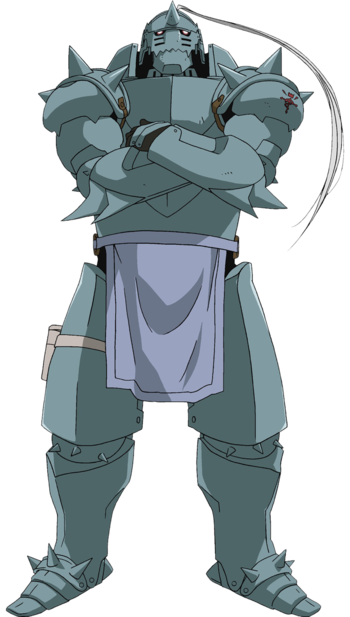
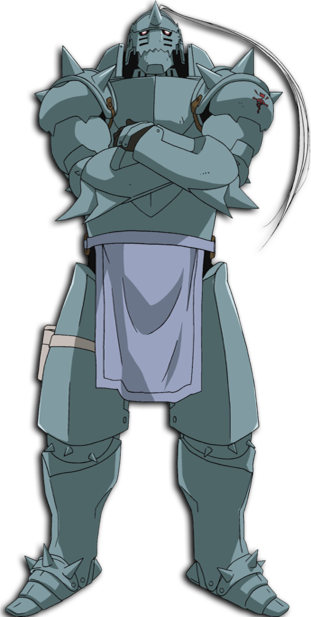
Projeto finalizado, AMV's adicionados, estilizacao de butao adicionado, botao mute e unmute adicionado

diff --git a/pages/winry.html b/pages/winry.html
@@ -13,7 +13,12 @@
 </head>
 
 <body>
-
+    <div class="video-background" id="video">
+        <div class="video-foreground">
+            <iframe src="https://www.youtube.com/embed/5zLWBdOj-ac?controls=0&showinfo=0&rel=0&autoplay=1&loop=1&mute=0"
+                allow="autoplay" frameborder="0" allowfullscreen></iframe>
+        </div>
+    </div>
     <nav class="navbar">
         <div class="logo">
             <a href="../index.html"><img src="../assets/images/logo.png" width="70px" height="50px"></a>
@@ -24,11 +29,13 @@
             <li class="um"><a href="#" onclick="info()">Info</a></li>
             <li class="dois"><a href="#" onclick="papel()">Papel</a></li>
             <li class="tres"><a href="#" onclick="wall()">Wallpapers</a></li>
+            <li><button class="botao-som" onclick="mutar()"><i class="fas fa-volume-mute"></i></button></li>
+            <li><button class="botao-som" onclick="desmutar()"><i class="fas fa-volume-up"></i></button></li>
         </ul>
 
     </nav>
     <div class="conteudo">
-        <div style="width:2%">
+        <div style="width:10%">
 
         </div>
         <!-- imagens -->
@@ -36,7 +43,7 @@
         <div class="container-imagens">
             <div>
                 <a href="../index.html">
-                <img src="../assets/images/ed_art.jpg" alt="arte do Edward" class="imagem">
+                    <img src="../assets/images/ed_art.jpg" alt="arte do Edward" class="imagem">
                 </a>
             </div>
             <div>
@@ -46,9 +53,9 @@
 
             </div>
             <div>
-               
-                    <img src="../assets/images/winry_art.jpg" alt="arte do Winry" class="imagem active">
-                
+
+                <img src="../assets/images/winry_art.jpg" alt="arte do Winry" class="imagem active">
+
             </div>
             <div>
                 <a href="mustang.html">
@@ -68,16 +75,24 @@
             <br />
             <div id="info">
                 <p>
-                    Winry Rockbell (ウィンリィ・ロックベル, Winrī Rokkuberu) is a main supporting character of the Fullmetal Alchemist series. She is a close childhood friend of Edward Elric and Alphonse Elric ever since their young life in Resembool who is almost like a sister to the two and essentially their only family. An amateur surgeon and mechanical repair specialist/enthusiast, Winry is Edward's rear line support as his personal automail engineer and mechanic, making sure his prosthetic right arm and left leg are always in good working order. Additionally, she provides a great deal of emotional support for the pair and plays the role of Edward's love interest.
+                    Winry Rockbell (ウィンリィ・ロックベル, Winrī Rokkuberu) is a main supporting character of the Fullmetal
+                    Alchemist series. She is a close childhood friend of Edward Elric and Alphonse Elric ever since
+                    their young life in Resembool who is almost like a sister to the two and essentially their only
+                    family. An amateur surgeon and mechanical repair specialist/enthusiast, Winry is Edward's rear line
+                    support as his personal automail engineer and mechanic, making sure his prosthetic right arm and
+                    left leg are always in good working order. Additionally, she provides a great deal of emotional
+                    support for the pair and plays the role of Edward's love interest.
                 </p>
-              
+
 
             </div>
         </div>
         <!-- imagem personagem -->
-        <div style="width:10% ;">
+        <div class="container-personagem">
             <img src="../assets/images/winry/winry-body.png" alt="edward elric" class="imagem-personagem">
         </div>
+        <div style="width:10% ;"></div>
+
 
     </div>
 
@@ -97,6 +112,17 @@
     function wall() {
         document.getElementById("info").innerHTML = "<div class='container-wallpaper'><div><img src='../assets/images/winry/w1.jpg' alt='arte do Edward' class='wallpaper'>            </div>            <div>                <img src='../assets/images/winry/w2.jpg' alt='arte do Edward' class='wallpaper'>            </div >            <div>                <img src='../assets/images/winry/w3.jpg' alt='arte do Edward' class='wallpaper'>            </div>                <div>                    <img src='../assets/images/winry/w4.jpg' alt='arte do Edward' class='wallpaper'>            </div>                </div>"
     }
+
+    function mutar() {
+        document.getElementById("video").innerHTML = "<div class='video-foreground'><iframe src='https://www.youtube.com/embed/GVBecxyg7Bc?controls=0&showinfo=0&rel=0&autoplay=1&loop=1&mute=1' allow='autoplay' frameborder='0' allowfullscreen></iframe> </div>"
+    }
+
+    function desmutar() {
+        document.getElementById("video").innerHTML = "<div class='video-foreground'><iframe src='https://www.youtube.com/embed/GVBecxyg7Bc?controls=0&showinfo=0&rel=0&autoplay=1&loop=1&mute=0' allow='autoplay' frameborder='0' allowfullscreen></iframe> </div>"
+    }
 </script>
+
+
+<script src="https://kit.fontawesome.com/c3b625b3c9.js" crossorigin="anonymous"></script>
 
 </html>

diff --git a/pages/mustang.html b/pages/mustang.html
@@ -13,7 +13,12 @@
 </head>
 
 <body>
-
+    <div class="video-background" id="video">
+        <div class="video-foreground">
+            <iframe src="https://www.youtube.com/embed/SwFIgpiZsCY?controls=0&showinfo=0&rel=0&autoplay=1&loop=1&mute=0" allow="autoplay"
+                frameborder="0" allowfullscreen></iframe>
+        </div>
+    </div>
     <nav class="navbar">
         <div class="logo">
             <a href="../index.html"><img src="../assets/images/logo.png" width="70px" height="50px"></a>
@@ -24,11 +29,13 @@
             <li class="um"><a href="#" onclick="info()">Info</a></li>
             <li class="dois"><a href="#" onclick="papel()">Papel</a></li>
             <li class="tres"><a href="#" onclick="wall()">Wallpapers</a></li>
+            <li><button class="botao-som" onclick="mutar()"><i class="fas fa-volume-mute"></i></button></li>
+            <li><button class="botao-som" onclick="desmutar()"><i class="fas fa-volume-up"></i></button></li>
         </ul>
 
     </nav>
     <div class="conteudo">
-        <div style="width:2%">
+        <div style="width:10%">
 
         </div>
         <!-- imagens -->
@@ -75,9 +82,10 @@
             </div>
         </div>
         <!-- imagem personagem -->
-        <div style="width:10% ;">
-            <img src="../assets/images/mustang/roy-body.png" alt="edward elric" class="imagem-personagem">
+       <div class="container-personagem">
+            <img src="../assets/images/mustang/roy-body.png" alt="edward elric" class="imagem-personagem" style="height:650px">
         </div>
+        <div style="width:10% ;"></div>
 
     </div>
 
@@ -97,6 +105,17 @@
     function wall() {
         document.getElementById("info").innerHTML = "<div class='container-wallpaper'><div><img src='../assets/images/mustang/w1.jpg' alt='arte do Edward' class='wallpaper'>            </div>            <div>                <img src='../assets/images/mustang/w2.png' alt='arte do Edward' class='wallpaper'>            </div >            <div>                <img src='../assets/images/mustang/w3.jpg' alt='arte do Edward' class='wallpaper'>            </div>                <div>                    <img src='../assets/images/mustang/w4.png' alt='arte do Edward' class='wallpaper'>            </div>                </div>"
     }
+
+    function mutar() {
+        document.getElementById("video").innerHTML = "<div class='video-foreground'><iframe src='https://www.youtube.com/embed/GVBecxyg7Bc?controls=0&showinfo=0&rel=0&autoplay=1&loop=1&mute=1' allow='autoplay' frameborder='0' allowfullscreen></iframe> </div>"
+    }
+
+    function desmutar() {
+        document.getElementById("video").innerHTML = "<div class='video-foreground'><iframe src='https://www.youtube.com/embed/GVBecxyg7Bc?controls=0&showinfo=0&rel=0&autoplay=1&loop=1&mute=0' allow='autoplay' frameborder='0' allowfullscreen></iframe> </div>"
+    }
+
 </script>
+
+<script src="https://kit.fontawesome.com/c3b625b3c9.js" crossorigin="anonymous"></script>
 
 </html>

diff --git a/pages/al.html b/pages/al.html
@@ -13,6 +13,12 @@
 </head>
 
 <body>
+    <div class="video-background" id="video">
+        <div class="video-foreground">
+            <iframe src="https://www.youtube.com/embed/GVBecxyg7Bc?controls=0&showinfo=0&rel=0&autoplay=1&loop=1&mute=0" allow="autoplay"
+                frameborder="0" allowfullscreen></iframe>
+        </div>
+    </div>
 
     <nav class="navbar">
         <div class="logo">
@@ -24,11 +30,13 @@
             <li class="um"><a href="#" onclick="info()">Info</a></li>
             <li class="dois"><a href="#" onclick="papel()">Papel</a></li>
             <li class="tres"><a href="#" onclick="wall()">Wallpapers</a></li>
+            <li><button class="botao-som" onclick="mutar()"><i class="fas fa-volume-mute"></i></button></li>
+            <li><button class="botao-som" onclick="desmutar()"><i class="fas fa-volume-up"></i></button></li>
         </ul>
 
     </nav>
     <div class="conteudo">
-        <div style="width:2%">
+        <div style="width:10%">
 
         </div>
         <!-- imagens -->
@@ -89,9 +97,11 @@
             </div>
         </div>
         <!-- imagem personagem -->
-        <div style="width:10% ;">
+      <div class="container-personagem">
             <img src="../assets/images/al/al-body.png" alt="edward elric" class="imagem-personagem">
         </div>
+        <div style="width:10% ;"></div>
+
 
     </div>
 
@@ -111,6 +121,17 @@
     function wall() {
         document.getElementById("info").innerHTML = "<div class='container-wallpaper'><div><img src='../assets/images/al/w1.jpg' alt='arte do Edward' class='wallpaper'>            </div>            <div>                <img src='../assets/images/al/w2.jpg' alt='arte do Edward' class='wallpaper'>            </div >            <div>                <img src='../assets/images/al/w3.jpg' alt='arte do Edward' class='wallpaper'>            </div>                <div>                    <img src='../assets/images/al/w4.jpg' alt='arte do Edward' class='wallpaper'>            </div>                </div>"
     }
+    
+    function mutar() {
+        document.getElementById("video").innerHTML = "<div class='video-foreground'><iframe src='https://www.youtube.com/embed/GVBecxyg7Bc?controls=0&showinfo=0&rel=0&autoplay=1&loop=1&mute=1' allow='autoplay' frameborder='0' allowfullscreen></iframe> </div>"
+    }
+
+    function desmutar() {
+        document.getElementById("video").innerHTML = "<div class='video-foreground'><iframe src='https://www.youtube.com/embed/GVBecxyg7Bc?controls=0&showinfo=0&rel=0&autoplay=1&loop=1&mute=0' allow='autoplay' frameborder='0' allowfullscreen></iframe> </div>"
+    }
+
 </script>
+
+<script src="https://kit.fontawesome.com/c3b625b3c9.js" crossorigin="anonymous"></script>
 
 </html>

diff --git a/index.html b/index.html
@@ -13,6 +13,12 @@
 </head>
 
 <body>
+    <div class="video-background" id="video">
+        <div class="video-foreground">
+            <iframe src="https://www.youtube.com/embed/ZIspCrcNr5k?controls=0&showinfo=0&rel=0&autoplay=1&loop=1&mute=0" allow="autoplay"
+                frameborder="0" allowfullscreen></iframe>
+        </div>
+    </div>
 
     <nav class="navbar">
         <div class="logo">
@@ -24,11 +30,13 @@
             <li class="um"><a href="#" onclick="info()">Info</a></li>
             <li class="dois"><a href="#" onclick="papel()">Papel</a></li>
             <li class="tres"><a href="#" onclick="wall()">Wallpapers</a></li>
+            <li><button class="botao-som" onclick="mutar()"><i class="fas fa-volume-mute"></i></button></li>
+            <li><button class="botao-som" onclick="desmutar()"><i class="fas fa-volume-up"></i></button></li>
         </ul>
 
     </nav>
     <div class="conteudo">
-        <div style="width:2%">
+        <div style="width:10%">
 
         </div>
         <!-- imagens -->
@@ -90,8 +98,11 @@
             </div>
         </div>
         <!-- imagem personagem -->
-        <div style="width:10% ;">
+        <div class="container-personagem">
             <img src="assets/images/ed.png" alt="edward elric" class="imagem-personagem">
+        </div>
+        <div style="width:10% ;">
+
         </div>
 
     </div>
@@ -112,6 +123,16 @@
     function wall() {
         document.getElementById("info").innerHTML = "<div class='container-wallpaper'><div><img src='assets/images/ed/w1.jpg' alt='arte do Edward' class='wallpaper'>            </div>            <div>                <img src='assets/images/ed/w2.jpg' alt='arte do Edward' class='wallpaper'>            </div >            <div>                <img src='assets/images/ed/w3.jpg' alt='arte do Edward' class='wallpaper'>            </div>                <div>                    <img src='assets/images/ed/w4.jpg' alt='arte do Edward' class='wallpaper'>            </div>                </div>"
     }
+
+    function mutar() {
+        document.getElementById("video").innerHTML = "<div class='video-foreground'><iframe src='https://www.youtube.com/embed/GVBecxyg7Bc?controls=0&showinfo=0&rel=0&autoplay=1&loop=1&mute=1' allow='autoplay' frameborder='0' allowfullscreen></iframe> </div>"
+    }
+
+    function desmutar() {
+        document.getElementById("video").innerHTML = "<div class='video-foreground'><iframe src='https://www.youtube.com/embed/GVBecxyg7Bc?controls=0&showinfo=0&rel=0&autoplay=1&loop=1&mute=0' allow='autoplay' frameborder='0' allowfullscreen></iframe> </div>"
+    }
 </script>
+
+<script src="https://kit.fontawesome.com/c3b625b3c9.js" crossorigin="anonymous"></script>
 
 </html>

diff --git a/css/style.css b/css/style.css
@@ -48,14 +48,16 @@ body{
 
 
 .container-imagens{
-    height:100%;
+    max-height: 100%;
     width: 20%;
+    text-align: center;
+    padding: 5px;
 }
 
 .imagem{
-    height: 180px;
-    width: 300px;
+    width: 100%;
     filter: grayscale();
+    height: 100%;
 }
 
 .imagem:hover{
@@ -74,7 +76,9 @@ body{
 
 .container-wallpaper{
     margin-top: 5px;
-    display: flex;
+    display: block;
+    max-width: 800px;
+    text-align: center;
 }
 
 
@@ -106,20 +110,71 @@ body{
 
 
 .container-texto{
-    width: 50%;
+    width: 100%;
+    text-align: center;
+    text-shadow: 2px 2px #0a0808;
 }
 
 
 .imagem-personagem{
-    height:500px;
-    width:300px
+    height:100%;
+    width:100%
 }
 
 .active{
     filter:none;
 }
 
+.container-personagem{
+    max-height: 100%;
+    width: 20%;
+    text-align: center;
+    padding: 5px;
+}
+
+* { box-sizing: border-box; }
+.video-background {
+  background: #000;
+  position: fixed;
+  top: 0; right: 0; bottom: 0; left: 0;
+  z-index: -99;
+}
+.video-foreground,
+.video-background iframe {
+  position: absolute;
+  top: 0;
+  left: 0;
+  width: 100%;
+  height: 100%;
+  pointer-events: none;
+  filter: grayscale();
+  filter: blur(15px);
+ 
+}
+.video-background:after {
+    position: absolute;
+    content:"";
+    height:100%;
+    width:100%;
+    top:0;
+    left:0;
+    background: linear-gradient(to bottom, rgba(0, 0, 0, 0) 0%,rgba(255,0,0,0.65) 100%);
+}
 
 
+.botao-som{
+    height:40px;
+    border-radius:50%;
+    margin: auto;
+    margin-top: 5px;
+    background-color:red ;
+    border: none;
+    padding: 3px;
+    margin-right: 5px;
+    color: white;
+    width: 40px;
+    box-shadow: 3px 3px #000000;
+    cursor: pointer;
+}
 
 
